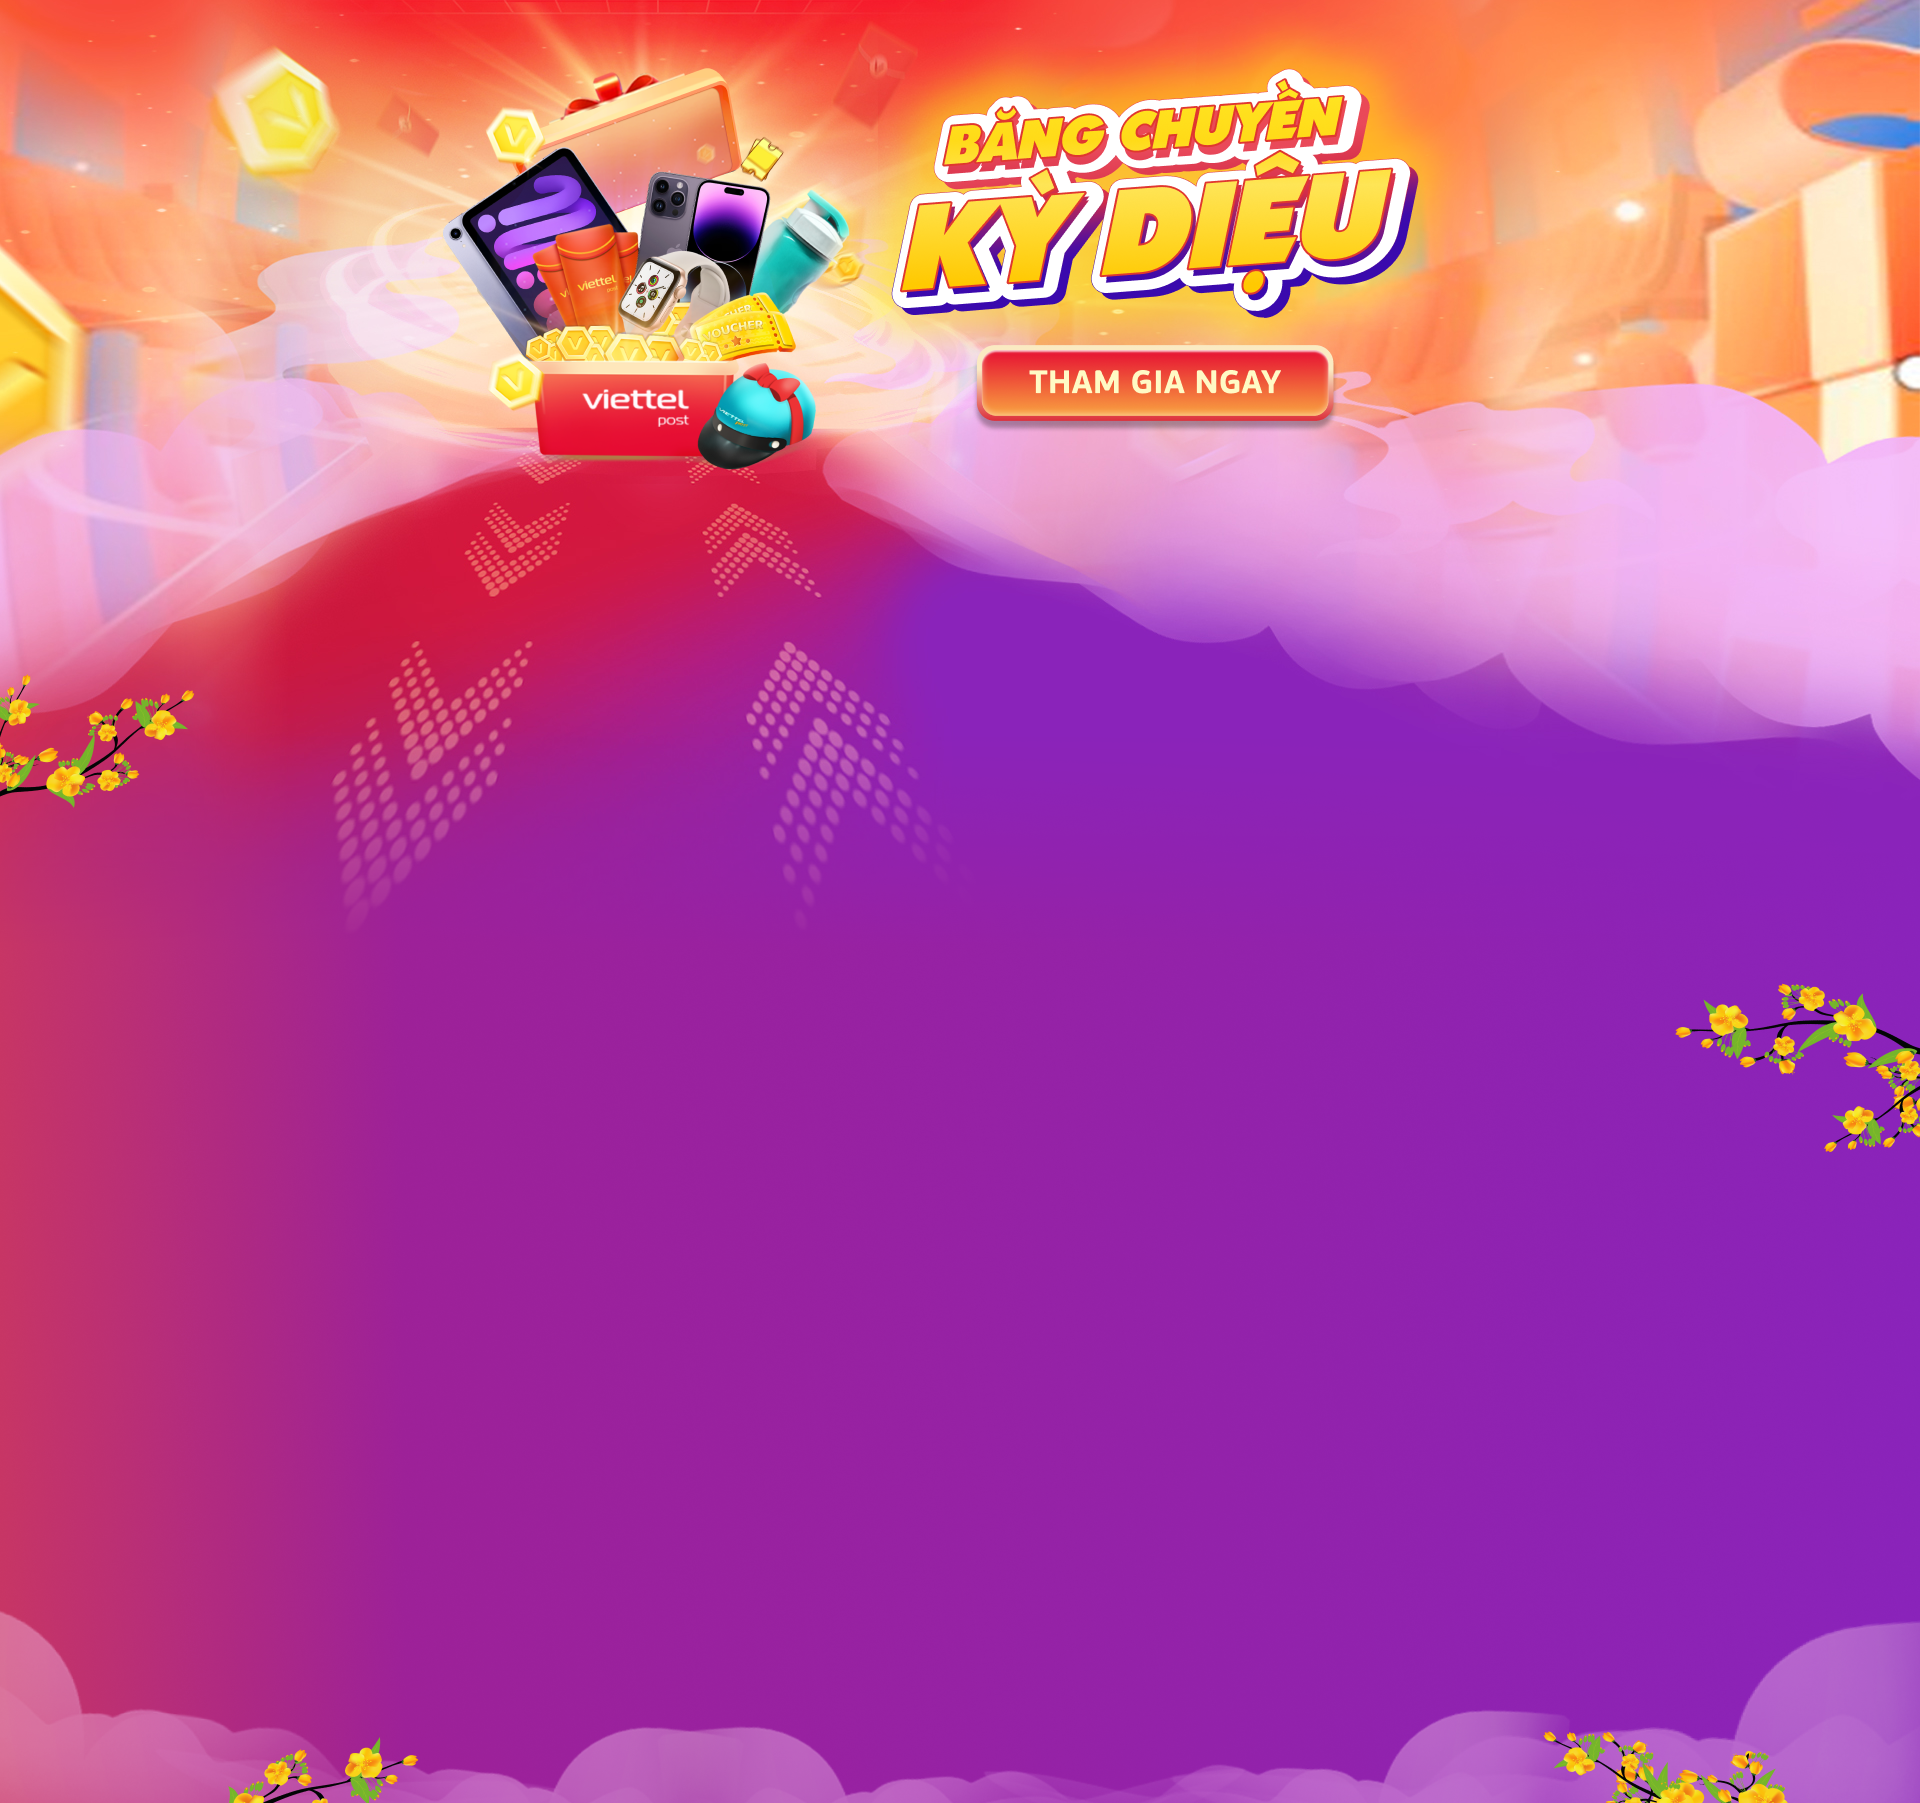
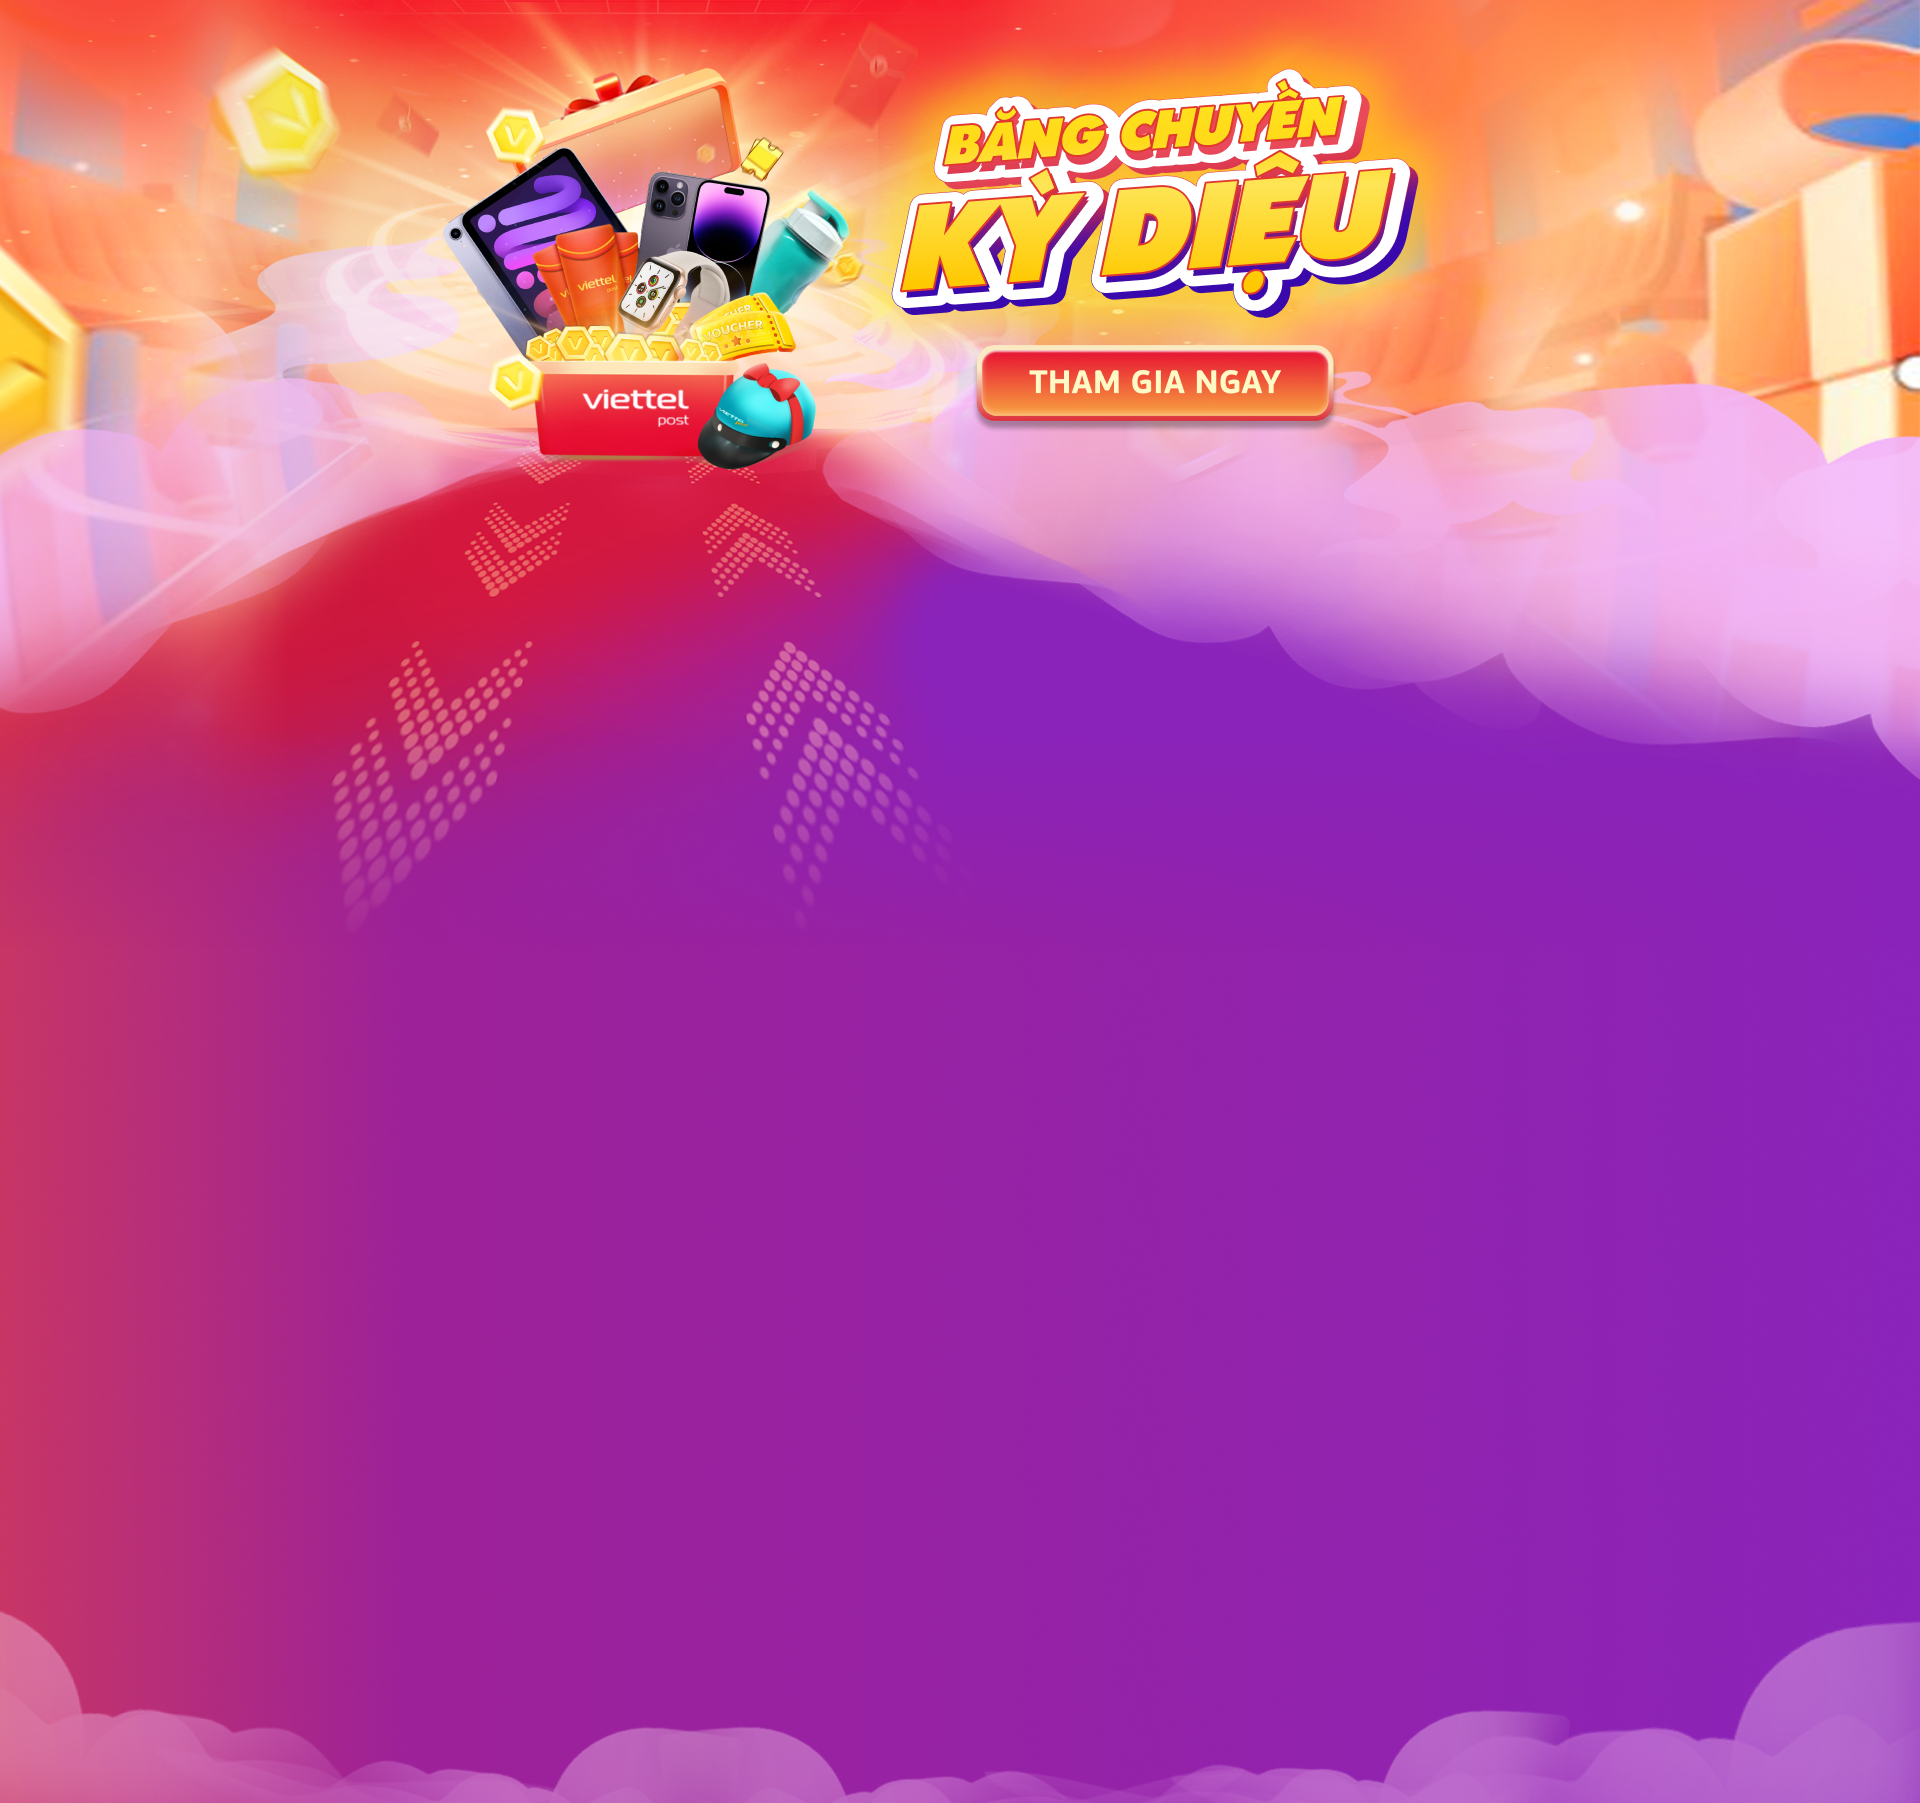
- update

diff --git a/public/index.html b/public/index.html
@@ -8,27 +8,29 @@
 	</head>
 	<body>
 		
-		<div id="container">
-			<div class="dTop">
-				<div class="pLogo">
-
+		<div class="background-image">
+			<div class="containerOP1 OP1">
+				<div class="logo-image ">
+					<img src="./img/LOGO_OP1.png" class="center topLogo">
 				</div>
-				<div class="pJoinButton">
-				
+				<div class="div-blank"></div>
+				<div class="title-result">
+					<img src="./img/title_result.png">
+				</div>
+				<div class="div-today"></div>
+				<div class="table-refresh" data-url="/data"></div>
+				<div class="btn-join2 ">
+					<a href="#">
+						<img src="./img/BtnJoin_OP1.png" class="center botBtn">
+					</a>
 				</div>
 			</div>
-
-			<div class="dMid">
-				
-			</div>
-
-			<div class="dBot">
-				
-			</div>
+			<div class="btn-join OP2"><a href="#"></a></div>
+			
 		</div>
 		
 
-        <div class="table-refresh" data-url="/data"></div>
+        
 			
 		
 		<script src="./src/app.js"></script>
@@ -37,19 +39,116 @@
 
 
 <style>
-.dTop{
-	background-color: red;
-	display: flex;
-	padding: 10px;
+*{
+	margin: 0;
+	padding: 0;
 }
 
-.dMid{
-	background-color: blue;
+.btn-join{
+	display: block;
+	width: 100%;
+	height: 250px;
+	text-align: center;
 }
 
-.dBot{
-	background-color: peru;
+.btn-join a{
+	width: 70%;
+	height: 100%;
+	cursor: pointer;
+	padding:1em;
+    text-align: center;
+    display:inline-block;
+    text-decoration: none !important;
+    margin-top: 80px;
 }
+
+.center {
+ 	display: block;
+	margin: auto;
+}
+
+.btn-join2{
+	padding-top: 24px;
+}
+
+.topLogo{
+	padding-top: 20px;
+}
+
+.botBtn{
+	padding-bottom: 20px;
+}
+
+.containerOP1{
+	width: 100%;
+	height: 100%;
+}
+
+.div-blank{
+	height: 29vh;
+	
+}
+
+.title-result img{
+	width: 60%;
+	display: block;
+	margin: auto;
+}
+
+.div-today{
+	background-image: url('./img/BG_date.png');
+	background-size: contain;
+	background-repeat: no-repeat;
+	background-position: center;
+	height: 30px;
+}
+
+.div-today p{
+	text-align: center;
+	color: white;
+	padding-top: 6px;
+}
+
+@media screen and (max-width:500px) {
+	.background-image{
+		background-image: url('./img/BG_OP1.png');
+		background-size: cover;
+		background-repeat: no-repeat;
+		background-position: center;
+		height: 100vh;
+		
+	}
+
+	.OP2{
+		display: none;
+	}
+
+	.OP1{
+		display: block;
+	}
+}
+
+
+
+@media screen and (min-width:501px) {
+	.background-image{
+		background-image: url('./img/BG_OP2.png');
+		background-size: cover;
+		background-repeat: no-repeat;
+		background-position: center;
+		height: 180vh;
+		
+	}
+
+	.OP2{
+		display: block;
+	}
+
+	.OP1{
+		display: none;
+	}
+}
+	
 </style>	
 
 

diff --git a/public/src/app.js b/public/src/app.js
@@ -1,6 +1,5 @@
 {
     async function updateTable(root){
-        root.querySelector(".table-refresh__button").classList.add("table-refresh__button--refreshing");
 
         const table = root.querySelector(".table-refresh__table")
         const response = await fetch(root.dataset.url);
@@ -22,17 +21,14 @@
                 </tr>
             `);
         }
-
-        root.querySelector(".table-refresh__labels").textContent = `Last updated: ${new Date(data.lastUpdated).toLocaleString()}`;
-        root.querySelector(".table-refresh__button").classList.remove("table-refresh__button--refreshing");
     }
 
     for(const root of document.querySelectorAll(".table-refresh[data-url]")){
         const table = document.createElement("table");
-        const options = document.createElement("div");
+       
 
         table.classList.add("table-refresh__table");
-        options.classList.add("table-refresh__options");
+        
 
         table.innerHTML = `
             <thead>
@@ -48,19 +44,23 @@
             </tbody>
         `;
 
-        options.innerHTML = `
-            <span class="table-refresh__labels">Last update: never</span>
-            <button type="button" class="table-refresh__button">
-                <i class="material-icons">refresh</i>
-            </button>
-        `;
+       
 
-        root.append(table,options);
+        root.append(table);
 
-        options.querySelector(".table-refresh__button").addEventListener("click", () => {
-            updateTable(root)
-        })
-
+        
         updateTable(root);
     }
+
+    const today = new Date();
+    const yyyy = today.getFullYear();
+    let mm = today.getMonth() + 1;
+    let dd = today.getDate();
+
+    if (dd < 10) dd = '0' + dd;
+    if (mm < 10) mm = '0' + mm;
+
+    const formattedToday = dd + '/' + mm + '/' + yyyy;
+    console.log(formattedToday)
+    document.querySelector(".div-today").innerHTML = `<p>Tính đến ngày ${formattedToday.toString()}</p>`;
 }

diff --git a/public/css/app.css b/public/css/app.css
@@ -1,20 +1,33 @@
 .table-refresh{
-    min-width: 400px;
+    min-width: 300px;
     max-width: 1000px;
-    font-size: 14px;
+    font-size: 11px;
     font-family: 'FS PF BeauSans Pro', sans-serif;
+    height: 220px;
 }
 
 .table-refresh__table{
+    display: block;
     border-collapse: collapse;
-    width: 100%;
+    width: 80%;
     box-shadow: 0 0 5px rgba(0, 0, 0, 0.2);
     border-bottom: 2px solid #009578;
+    overflow-y: auto;
+    height: 220px;
+    display: block;
+    margin: auto;
 }
 
 .table-refresh__table thead tr {
     background-color: #009578;
     color: white;
+    
+}
+
+.table-refresh__table thead tr,
+.table-refresh__table thead th {
+    position: sticky;
+    top: 0px;
 }
 
 .table-refresh__table th,
@@ -66,3 +79,12 @@
     font-size: 0.8em;
     color: #999999;
 }
+
+/* html>body div.tableContainer table {
+    width: calc(100% - 16px);
+    overflow: visible;
+}
+
+.html>body tbody.scrollContent {
+    width: calc(100% + 16px);
+} */
